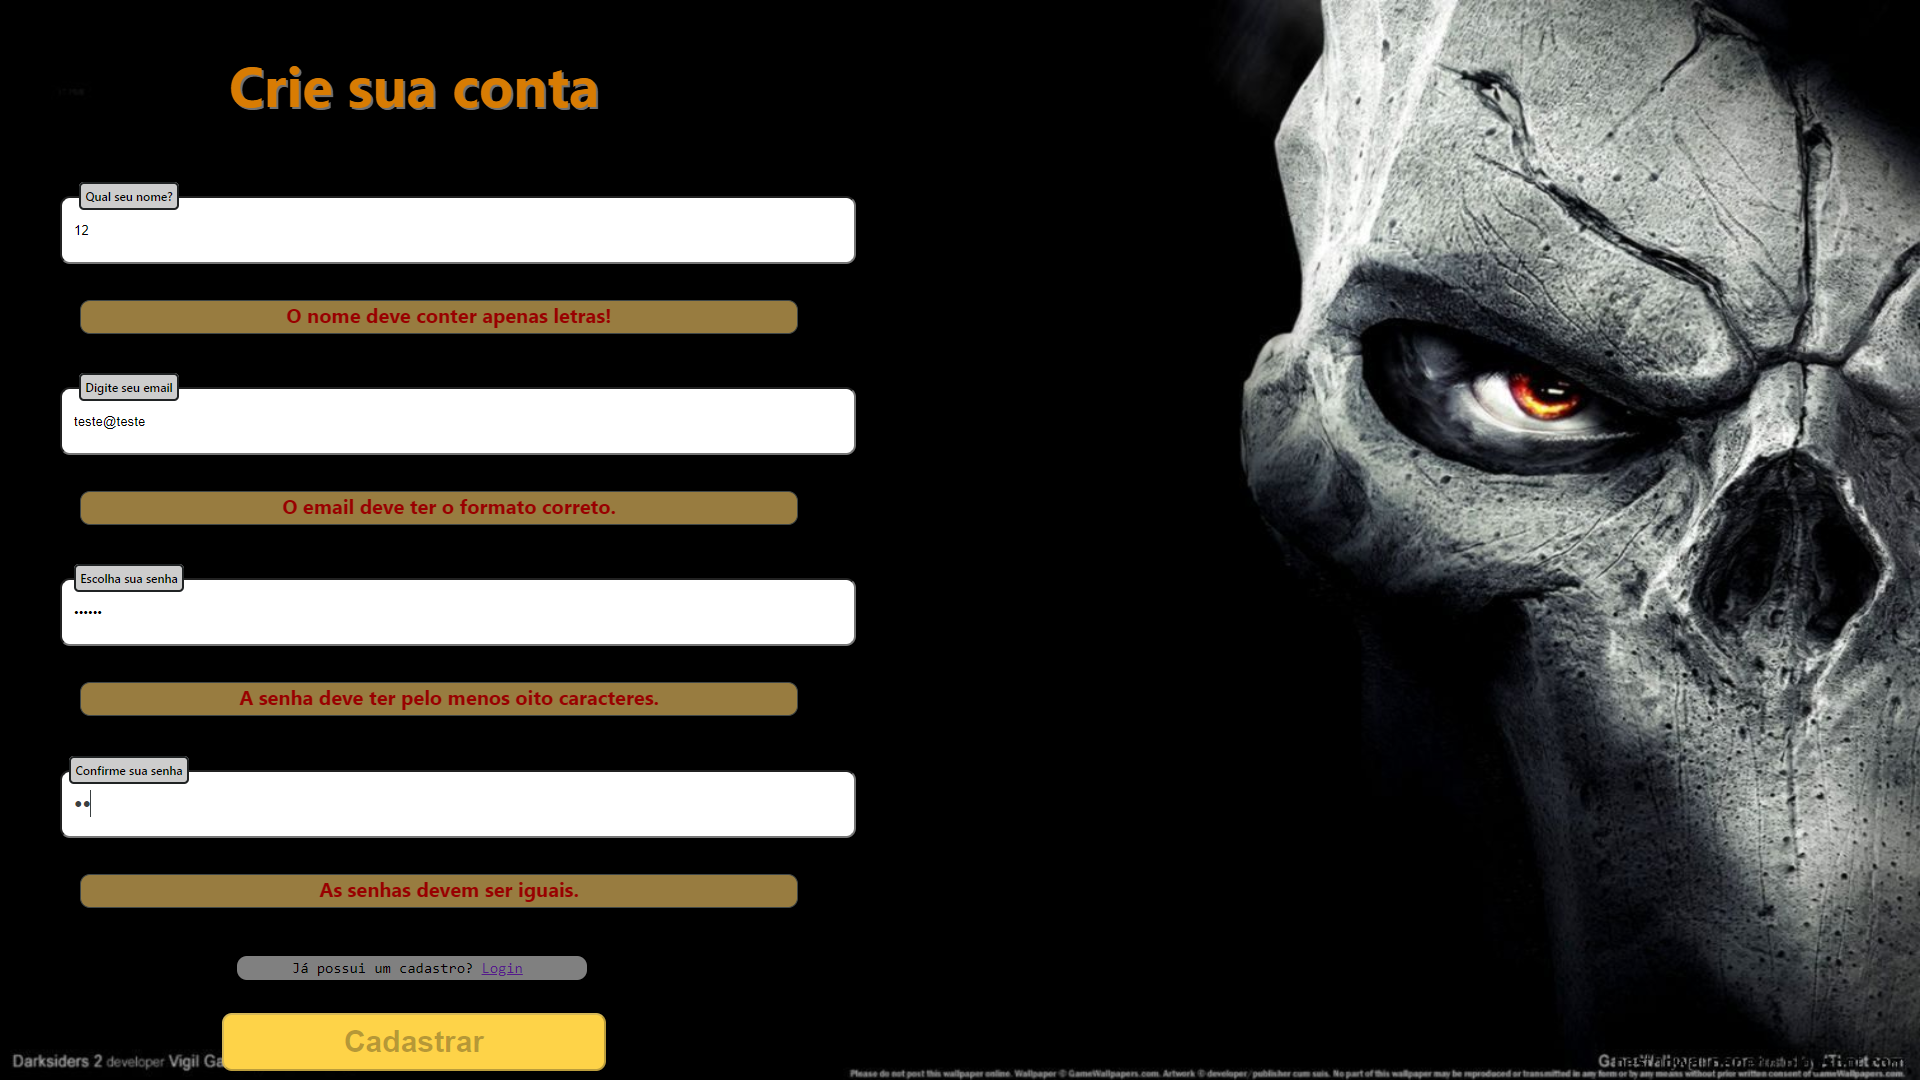
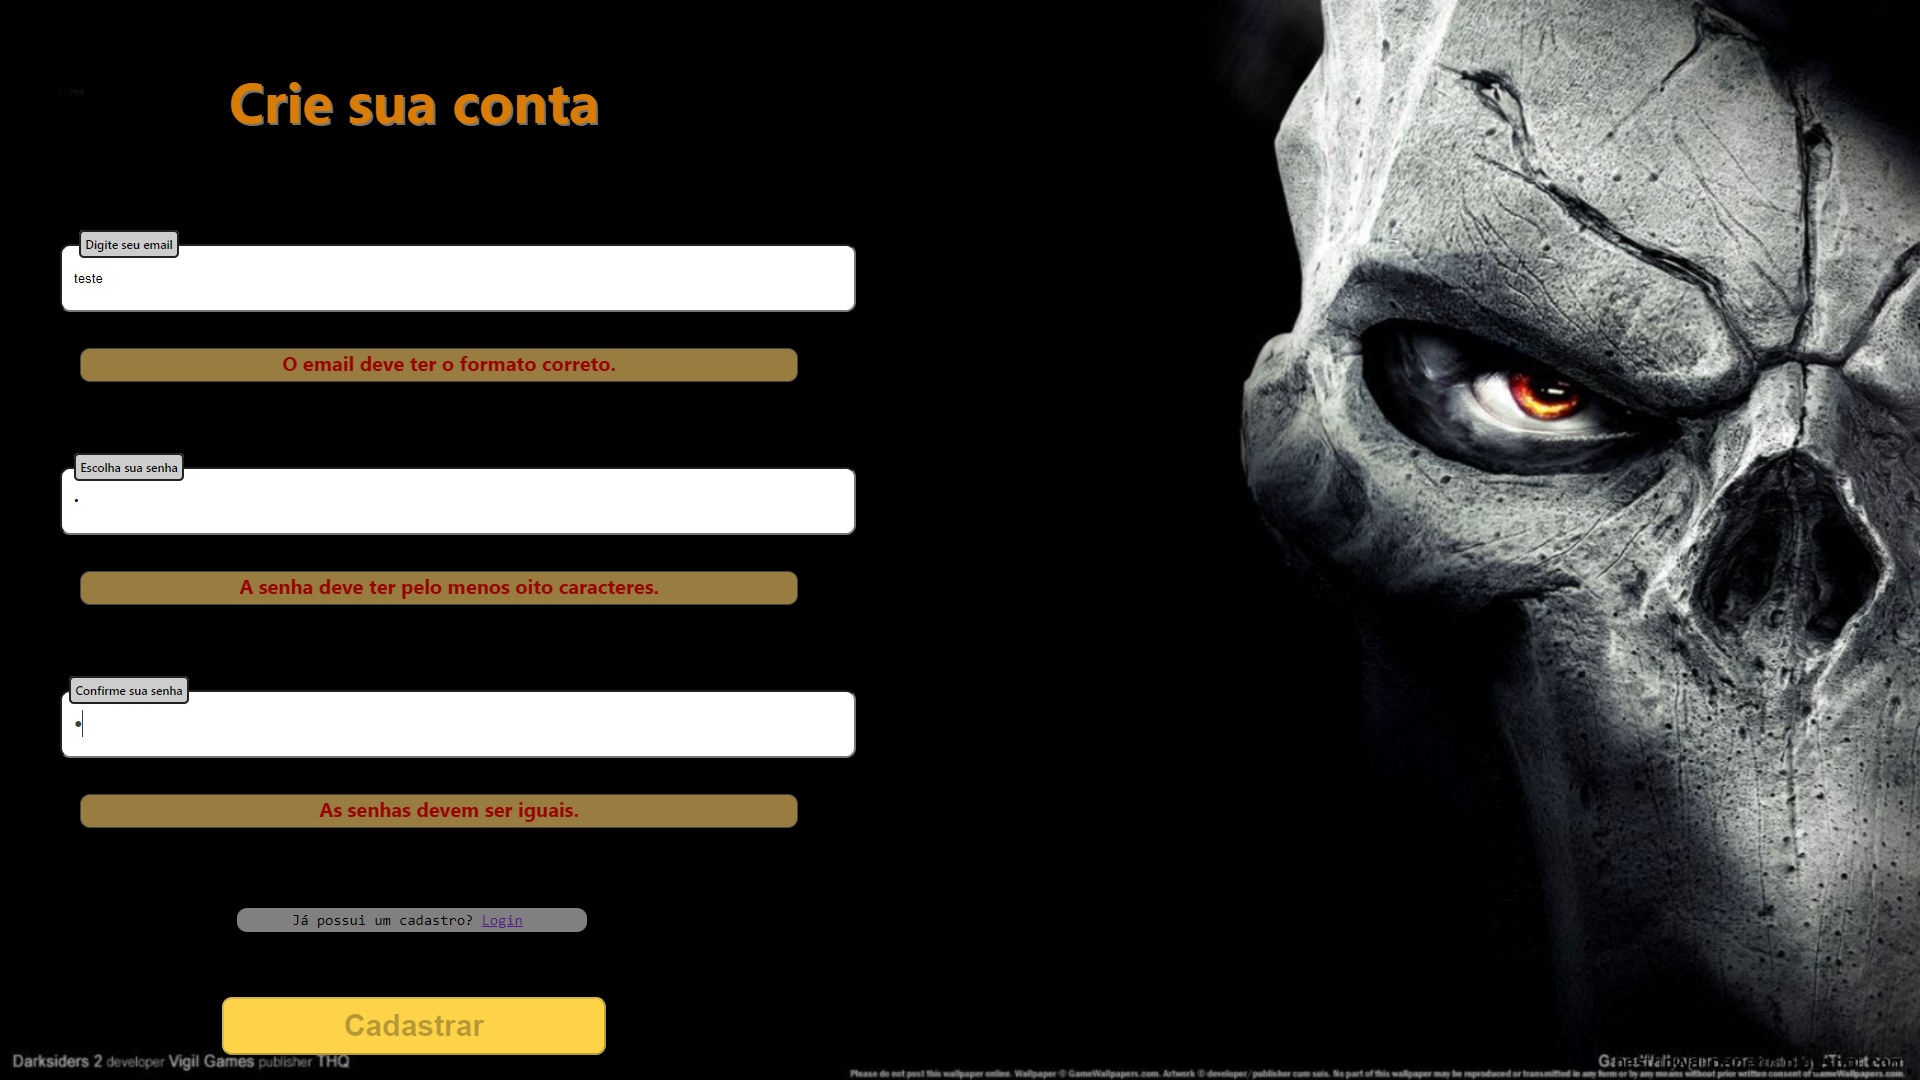
Trocadas as imagens da tela de cadastro.

Changed region(s): [[0.0312, 0.1528, 0.4688, 1.0], [0.125, 0.0611, 0.3125, 0.1222]]

diff --git a/src/pages/SignUp.jsx b/src/pages/SignUp.jsx
@@ -2,7 +2,7 @@ import React, { useEffect, useState } from "react";
 import Input from '../components/Input';
 import { Link, Navigate } from "react-router-dom";
 import Button from '../components/Button';
-import { emailValidator, passwordLengthValidator, passwordMatcher, validateUserName } from "../services/validators";
+import { emailValidator, passwordLengthValidator, passwordMatcher } from "../services/validators";
 import SignupImage from '../images/SignupImage.jpg';
 import '../css/styles.css';
 import { postUser } from "../apiIntegration/api";
@@ -98,10 +98,6 @@ const SignUp = () => {
   const alreadySingnedUp = <pre id="navsignup" className="nav-link">
     Já possui um cadastro? <Link to="/">Login</Link>
   </pre>;
-
-  const nameWarning = <div className="warningText">
-  O nome deve conter apenas letras!
-  </div>;
 
   const emailWarning = <div className="warningText">
   O email deve ter o formato correto.
